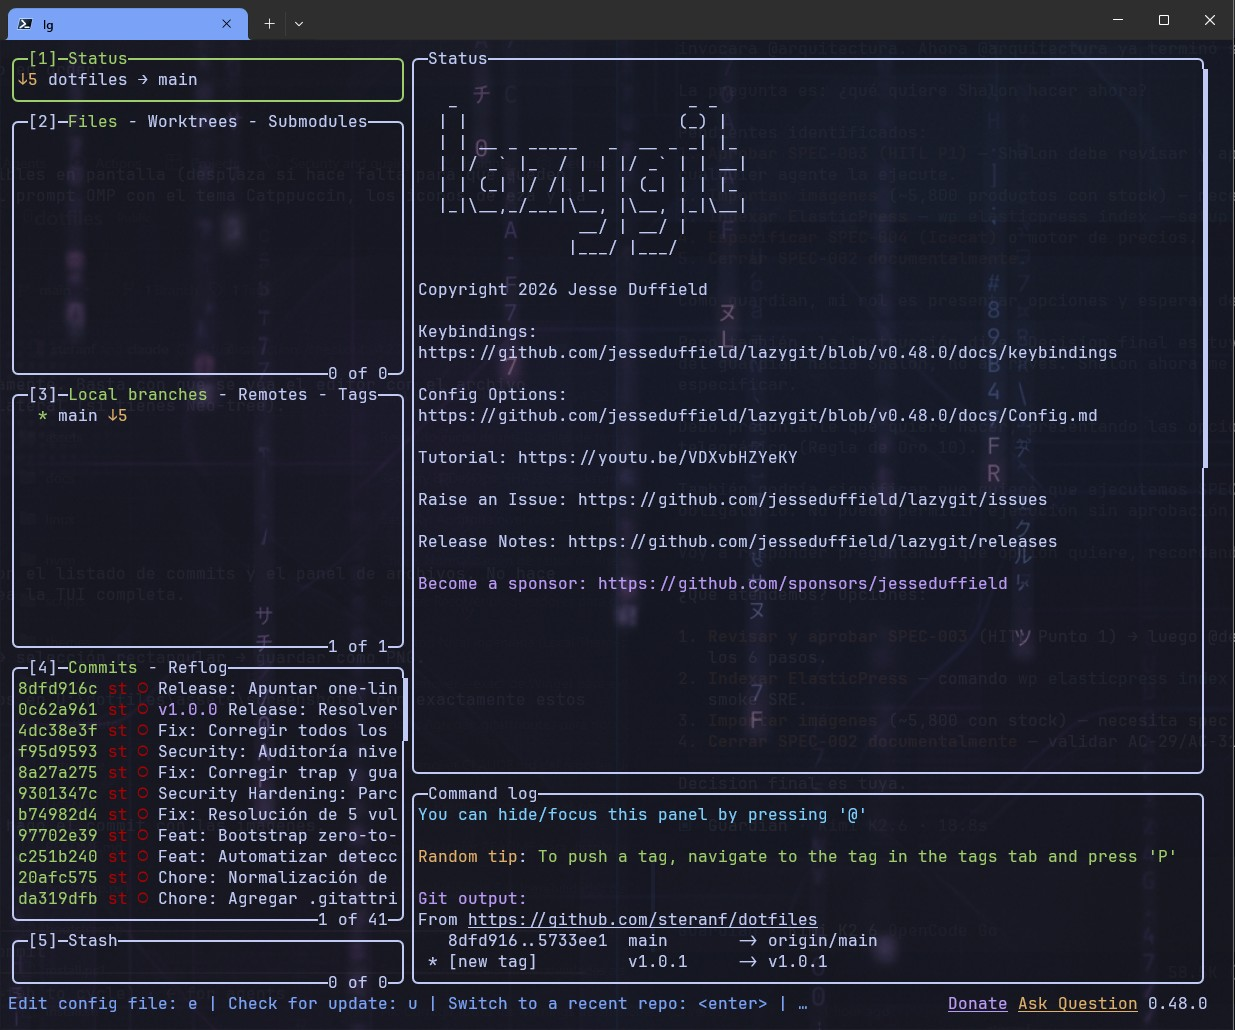
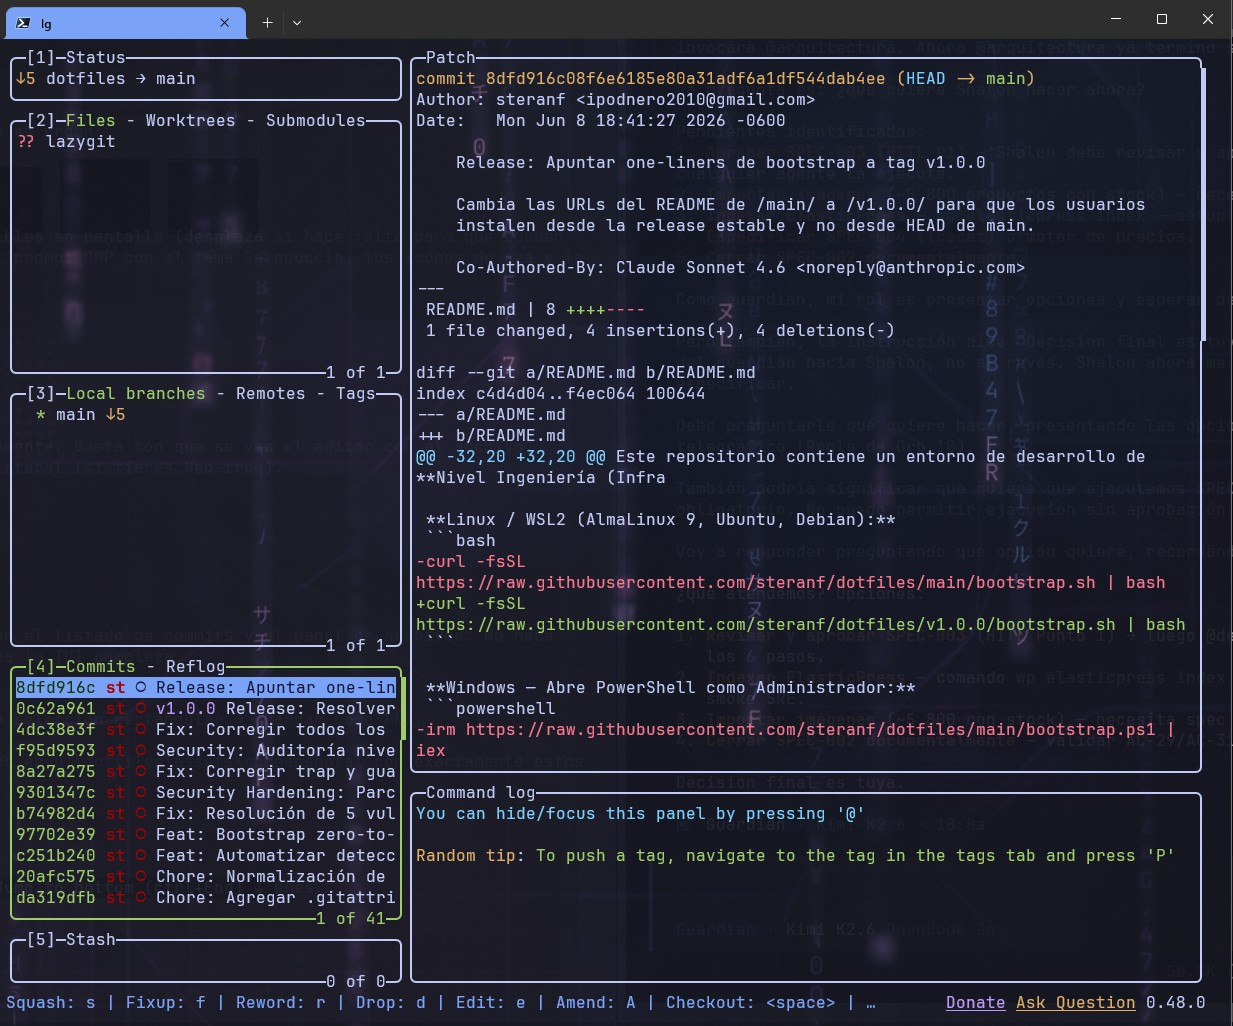
Fix: Actualizar one-liners de bootstrap a v1.0.2 + mejor screenshot lazygit
README apunta ahora al tag correcto. Screenshot de LazyGit reemplazado
por uno con diff real en lugar del panel de bienvenida.

Changed region(s): [[0.0, 0.0, 0.9862, 0.9981], [0.9554, 0.3431, 0.9862, 0.4366], [0.8013, 0.0624, 0.8321, 0.0936]]

diff --git a/README.md b/README.md
@@ -26,19 +26,19 @@ Dotfiles con instalador automatizado para **Windows 11 + WSL2 (AlmaLinux 9)**. P
 
 **Linux / WSL2:**
 ```bash
-curl -fsSL https://raw.githubusercontent.com/steranf/dotfiles/v1.0.1/bootstrap.sh | bash
+curl -fsSL https://raw.githubusercontent.com/steranf/dotfiles/v1.0.2/bootstrap.sh | bash
 ```
 
 **Windows — PowerShell como Administrador:**
 ```powershell
-irm https://raw.githubusercontent.com/steranf/dotfiles/v1.0.1/bootstrap.ps1 | iex
+irm https://raw.githubusercontent.com/steranf/dotfiles/v1.0.2/bootstrap.ps1 | iex
 ```
 
 El bootstrap instala `git` si no está presente, clona el repo y lanza el instalador. Desde cero hasta entorno completo en ~15 minutos.
 
 > **Modo desatendido** (sin menú, instala todo en silencio):
 > ```bash
-> curl -fsSL https://raw.githubusercontent.com/steranf/dotfiles/v1.0.1/bootstrap.sh | bash -s -- --all
+> curl -fsSL https://raw.githubusercontent.com/steranf/dotfiles/v1.0.2/bootstrap.sh | bash -s -- --all
 > ```
 
 ---
